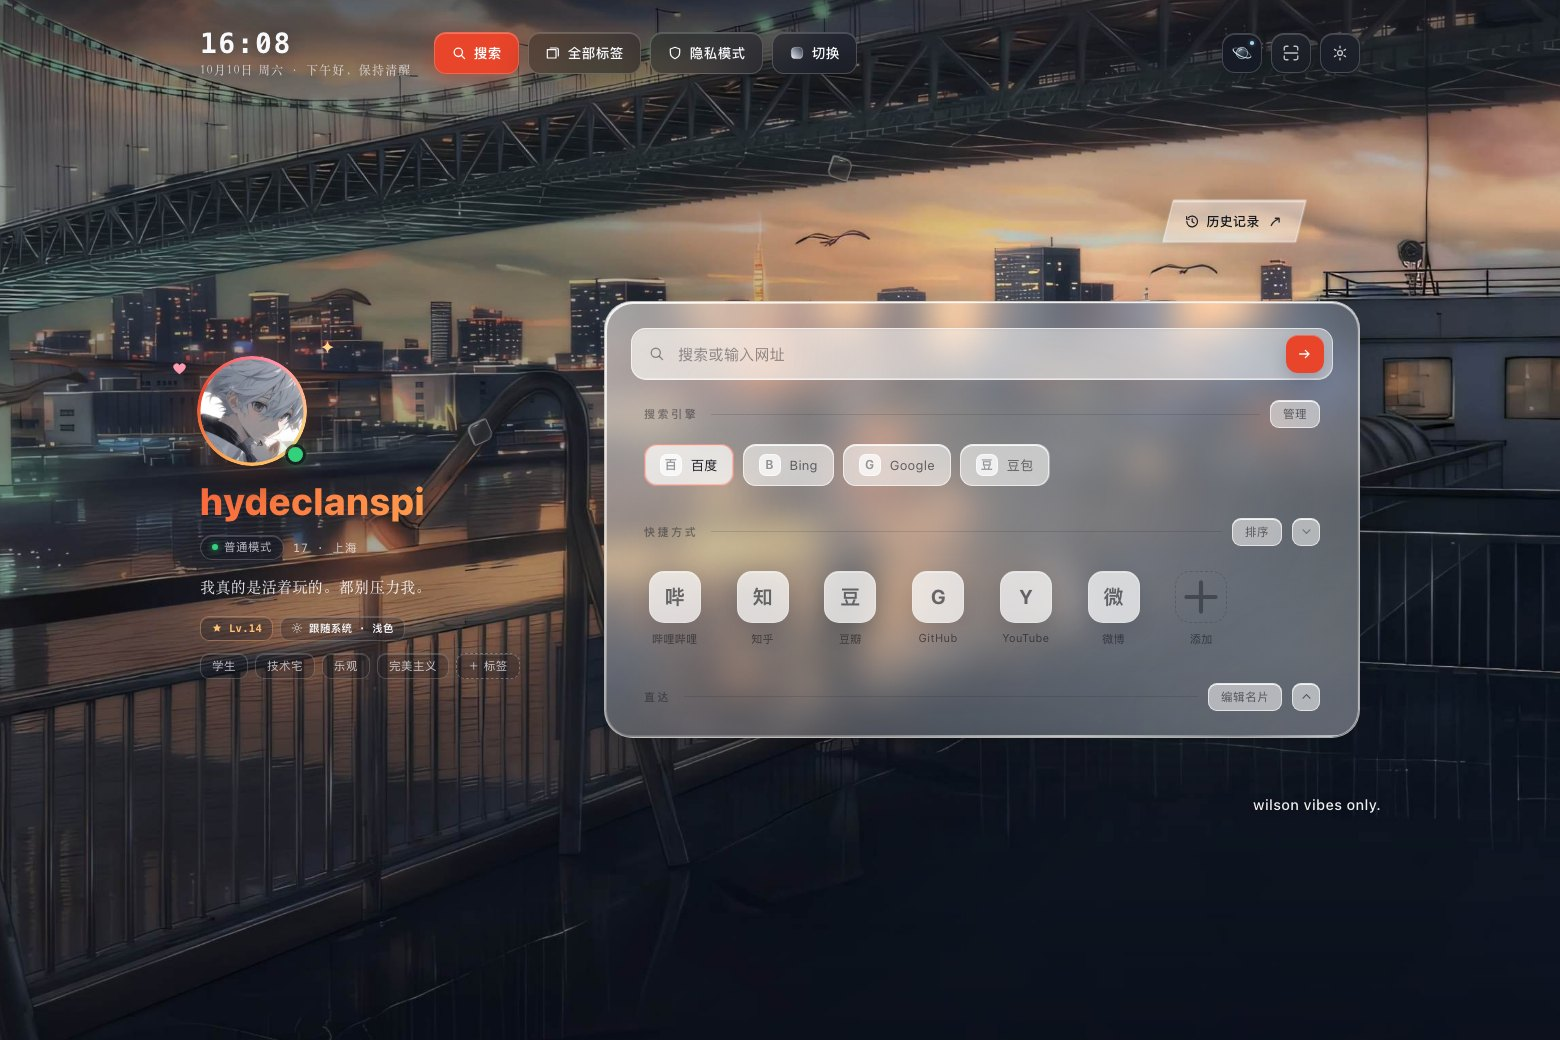
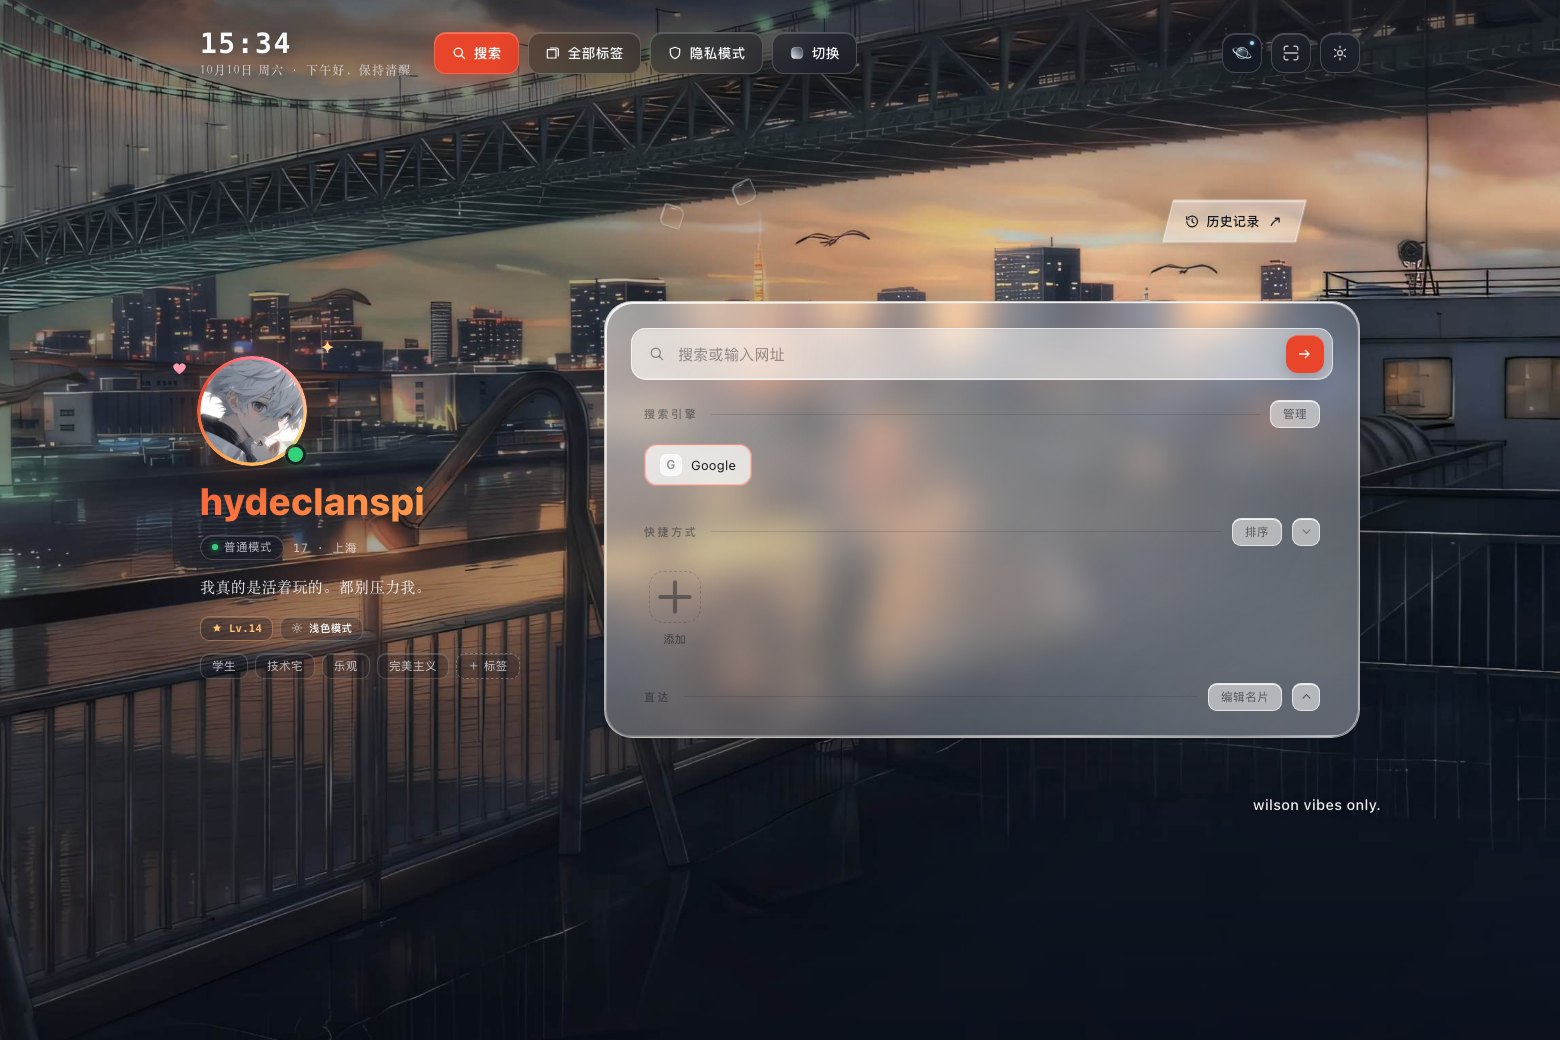
Glass: choose Warm Clear or Classic Frost for card and sheets (v5.0.3)
Set in the wallpaper sheet (hold Switch), and saved at once.

diff --git a/assets/app.js b/assets/app.js
@@ -78,6 +78,8 @@
     signs: [],
     wallpaper: "dark",
     wallpaperBlur: {},
+    glassMaterial: { version: 1, home: "warm", sheets: "warm" },
+    glassMaterialReady: false,
     wallpaperRolled: "",
     wallpaperProbability: { version: 1, light: 0.5, source: "default", updatedAt: 0 },
     wallpaperProbabilityReady: false,
@@ -1664,7 +1666,7 @@
     meta.className = "about-meta";
     var version = document.createElement("p");
     version.className = "about-version";
-    version.textContent = "名片主页 v4.5.3 · 2026-10 构建";
+    version.textContent = "名片主页 v5.0.3 · 2026-10 构建";
     var build = document.createElement("p");
     build.className = "about-build";
     build.textContent = "鸿蒙 Aira 灵感台 · beta v0.7 引擎 · © 2026";
@@ -1715,11 +1717,11 @@
   var EXPORT_BIG_CHARS = 64 * 1024;   // 单次复制开始提示静默截断风险的体量
   var EXPORT_STORE_WAIT = 1600;       // 两个引擎就绪的等待上限，超时只降级，不失败
 
-  var EXPORT_KEYS = ["profile", "icons", "folds", "wallpaper", "wallpaperBlur", "wallpaperProbability",
+  var EXPORT_KEYS = ["profile", "icons", "folds", "wallpaper", "wallpaperBlur", "glassMaterial", "wallpaperProbability",
     "probabilityDefaults", "interactionSettings", "collisionSettings", "motionSettings", "autoDriveSettings",
     "uiPrefs", "logs", "signs", "logsBundleVersion", "signsBundleVersion"];
   var EXPORT_LABELS = {
-    profile: "名片", icons: "图标偏好", folds: "折叠状态", wallpaper: "壁纸模式", wallpaperBlur: "壁纸模糊",
+    profile: "名片", icons: "图标偏好", folds: "折叠状态", wallpaper: "壁纸模式", wallpaperBlur: "壁纸模糊", glassMaterial: "玻璃材质",
     wallpaperProbability: "明暗比例", probabilityDefaults: "比例默认值", interactionSettings: "浮光数量",
     collisionSettings: "碰撞力度", motionSettings: "自然 pace", autoDriveSettings: "自动驾驶", uiPrefs: "编号徽章",
     logs: "日志", signs: "签名历史", logsBundleVersion: "日志版本", signsBundleVersion: "签名版本"
@@ -3755,6 +3757,73 @@
     syncInteractionPanel(); syncProbabilityPanel(); syncCollisionPanel(); syncPacePanel(); syncAutoDriveButton(); syncFactoryPanel();
   }
 
+  // Independent material choices use the same native storage bridge as wallpaper.
+  var glassLoadRevision = 0;
+  var glassSaveQueue = Promise.resolve();
+  function applyGlassMaterial() {
+    root.dataset.homeGlass = state.glassMaterial.home;
+    root.dataset.sheetGlass = state.glassMaterial.sheets;
+    document.querySelectorAll("[data-glass-target]").forEach(function (button) {
+      button.disabled = !state.glassMaterialReady;
+      button.setAttribute("aria-pressed", String(state.glassMaterial[button.dataset.glassTarget] === button.dataset.glassValue));
+    });
+  }
+  function loadGlassMaterial() {
+    var revision = ++glassLoadRevision;
+    state.glassMaterialReady = false;
+    applyGlassMaterial();
+    return storageGet("glassMaterial", null).then(function (saved) {
+      if (revision !== glassLoadRevision) return;
+      saved = saved && typeof saved === "object" ? saved : {};
+      state.glassMaterial = { version: 1, home: saved.home === "classic" ? "classic" : "warm", sheets: saved.sheets === "classic" ? "classic" : "warm" };
+      state.glassMaterialReady = true;
+      applyGlassMaterial();
+    }).catch(function () { if (revision === glassLoadRevision) { state.glassMaterialReady = true; applyGlassMaterial(); } });
+  }
+  function buildGlassMaterialSettings() {
+    var section = document.createElement("section");
+    section.className = "glass-material-section";
+    var title = document.createElement("p");
+    title.className = "wp-label glass-material-title";
+    title.textContent = "玻璃材质";
+    section.appendChild(title);
+    var capsule = document.createElement("div");
+    capsule.className = "interaction-toolbar glass-material-settings";
+    [["home", "主页主面板"], ["sheets", "进阶弹出窗口"]].forEach(function (target) {
+      var row = document.createElement("div");
+      row.className = "glass-material-row";
+      row.setAttribute("role", "group");
+      row.setAttribute("aria-label", target[1] + "玻璃材质");
+      var label = document.createElement("span");
+      label.className = "glass-material-label";
+      label.textContent = target[1];
+      row.appendChild(label);
+      [["classic", "经典磨砂玻璃"], ["warm", "暖光液态清璃"]].forEach(function (choice) {
+        var button = document.createElement("button");
+        button.type = "button";
+        button.className = "interaction-utility-button glass-material-choice";
+        button.textContent = choice[1];
+        button.dataset.glassTarget = target[0];
+        button.dataset.glassValue = choice[0];
+        button.disabled = !state.glassMaterialReady;
+        button.setAttribute("aria-pressed", String(state.glassMaterial[target[0]] === choice[0]));
+        button.addEventListener("click", function () {
+          if (state.glassMaterial[target[0]] === choice[0]) return;
+          ++glassLoadRevision;
+          state.glassMaterial[target[0]] = choice[0];
+          applyGlassMaterial();
+          var saved = { version: 1, home: state.glassMaterial.home, sheets: state.glassMaterial.sheets };
+          glassSaveQueue = glassSaveQueue.then(function () { return storageSet("glassMaterial", saved); })
+            .catch(function () { toast("材质已预览，保存未成功，请稍后重试"); });
+        });
+        row.appendChild(button);
+      });
+      capsule.appendChild(row);
+    });
+    section.appendChild(capsule);
+    return section;
+  }
+
   function openWallpaperPanel() {
     var body = document.createElement("div");
     body.className = "wp-panel";
@@ -3800,6 +3869,7 @@
     body.appendChild(modeNote);
     body.appendChild(picks);
     body.appendChild(blurRow);
+    body.appendChild(buildGlassMaterialSettings());
 
     var thumbs = {};
 
@@ -4197,6 +4267,7 @@
     initStats();
     initField();
     loadUiPrefs();
+    loadGlassMaterial();
     loadCollisionSettings();
     loadPaceSettings();
     loadAutoDriveSettings();

diff --git a/assets/glass-material.css b/assets/glass-material.css
@@ -1,11 +1,10 @@
-/* v5.0 beta.2 — warm-clear color study; two opt-in surfaces, all layout belongs to the original CSS.
-   No global glass/ink tokens: child windows and unrelated controls keep 4.5.3.
-   Only RGB colors change from beta.1; alpha, filters and geometry stay fixed.
+/* v5.0.3 — independently selected warm-clear materials, inherited from beta.2.
+   Classic surfaces keep the original CSS; layout and optical parameters stay fixed.
    --beta-cool is the inherited name for the neutral environment fill.
    The optical rim is an illustration of thickness, not a refraction shader. */
 
-.page > .card,
-#sheet.interaction-sheet {
+:root[data-home-glass="warm"] .page > .card,
+:root[data-sheet-glass="warm"] #sheet {
   --beta-warm: 250, 231, 209;
   --beta-cool: 220, 222, 224;
   --beta-face: 248, 247, 244;
@@ -26,8 +25,8 @@
   backdrop-filter: blur(18px) saturate(132%) brightness(1.13);
 }
 
-/* The interaction sheet has a steadier reading bed than the home surface. */
-#sheet.interaction-sheet {
+/* Every sheet has a steadier reading bed than the home surface. */
+:root[data-sheet-glass="warm"] #sheet {
   background:
     radial-gradient(ellipse at 45% 44%, rgba(253, 251, 248, .43), rgba(249, 247, 243, .13) 80%, transparent),
     linear-gradient(123deg, rgba(255, 254, 252, .38), rgba(247, 244, 239, .23) 48%, rgba(243, 241, 237, .28));
@@ -35,15 +34,15 @@
   backdrop-filter: blur(26px) saturate(124%) brightness(1.19);
 }
 
-:root[data-beta-wallpaper="light"] .page > .card,
-:root[data-beta-wallpaper="light"] #sheet.interaction-sheet {
+:root[data-beta-wallpaper="light"][data-home-glass="warm"] .page > .card,
+:root[data-beta-wallpaper="light"][data-sheet-glass="warm"] #sheet {
   --beta-warm: 250, 232, 213;
   --beta-cool: 222, 221, 226;
 }
 
 /* A broad reflection and gentle environment color — anchored, never spinning. */
-.page > .card::before,
-#sheet.interaction-sheet::before {
+:root[data-home-glass="warm"] .page > .card::before,
+:root[data-sheet-glass="warm"] #sheet::before {
   content: "";
   position: absolute;
   inset: 0;
@@ -57,8 +56,8 @@
 
 /* Kept separate from the container so the external history tab is never clipped. */
 @supports ((mask-composite: exclude) or (-webkit-mask-composite: xor)) {
-  .page > .card::after,
-  #sheet.interaction-sheet::after {
+  :root[data-home-glass="warm"] .page > .card::after,
+  :root[data-sheet-glass="warm"] #sheet::after {
     content: "";
     position: absolute;
     inset: 0;
@@ -80,9 +79,9 @@
   }
 }
 
-/* Only these direct material decorations are added by glass-beta.js. */
-.page > .card > .beta-glass-sheen,
-#sheet.interaction-sheet > .beta-glass-sheen {
+/* Only these direct material decorations are added by glass-material.js. */
+:root[data-home-glass="warm"] .page > .card > .beta-glass-sheen,
+:root[data-sheet-glass="warm"] #sheet > .beta-glass-sheen {
   display: block;
   position: absolute;
   inset: 2px;
@@ -106,13 +105,13 @@
 }
 .beta-glass-sheen > .beta-glass-point.is-lit { opacity: 1; }
 
-#sheet.interaction-sheet > :not(.beta-glass-sheen) {
+:root[data-sheet-glass="warm"] #sheet > :not(.beta-glass-sheen) {
   position: relative;
   z-index: 1;
 }
 
-:root[data-theme="dark"] .page > .card,
-:root[data-theme="dark"] #sheet.interaction-sheet {
+:root[data-theme="dark"][data-home-glass="warm"] .page > .card,
+:root[data-theme="dark"][data-sheet-glass="warm"] #sheet {
   --beta-rim-light: .50;
   --beta-glow-strength: .105;
   background:
@@ -129,15 +128,15 @@
   -webkit-backdrop-filter: blur(18px) saturate(124%) brightness(.88);
   backdrop-filter: blur(18px) saturate(124%) brightness(.88);
 }
-:root[data-theme="dark"] #sheet.interaction-sheet {
+:root[data-theme="dark"][data-sheet-glass="warm"] #sheet {
   background:
     radial-gradient(ellipse at 45% 44%, rgba(26, 26, 28, .37), rgba(26, 26, 28, .12) 80%, transparent),
     linear-gradient(123deg, rgba(64, 61, 60, .39), rgba(26, 26, 29, .39) 45%, rgba(46, 44, 47, .41));
   -webkit-backdrop-filter: blur(26px) saturate(122%) brightness(.91);
   backdrop-filter: blur(26px) saturate(122%) brightness(.91);
 }
-:root[data-theme="dark"] .page > .card::before,
-:root[data-theme="dark"] #sheet.interaction-sheet::before {
+:root[data-theme="dark"][data-home-glass="warm"] .page > .card::before,
+:root[data-theme="dark"][data-sheet-glass="warm"] #sheet::before {
   background:
     radial-gradient(ellipse 72% 52% at 0% 0%, rgba(var(--beta-warm), .075), transparent 80%),
     radial-gradient(ellipse 70% 62% at 100% 100%, rgba(var(--beta-cool), .08), transparent 76%),
@@ -146,16 +145,16 @@
 
 /* A complete, readable fallback if the host has no backdrop-filter support. */
 @supports not ((backdrop-filter: blur(1px)) or (-webkit-backdrop-filter: blur(1px))) {
-  .page > .card, #sheet.interaction-sheet { background: rgba(241, 239, 235, .96); }
-  :root[data-theme="dark"] .page > .card,
-  :root[data-theme="dark"] #sheet.interaction-sheet { background: rgba(35, 34, 36, .97); }
+  :root[data-home-glass="warm"] .page > .card, :root[data-sheet-glass="warm"] #sheet { background: rgba(241, 239, 235, .96); }
+  :root[data-theme="dark"][data-home-glass="warm"] .page > .card,
+  :root[data-theme="dark"][data-sheet-glass="warm"] #sheet { background: rgba(35, 34, 36, .97); }
 }
 
 @media (prefers-reduced-motion: reduce) {
   .beta-glass-sheen { display: none !important; }
 }
 @media (prefers-reduced-transparency: reduce) {
-  .page > .card, #sheet.interaction-sheet { background: rgba(244, 242, 238, .96); }
-  :root[data-theme="dark"] .page > .card,
-  :root[data-theme="dark"] #sheet.interaction-sheet { background: rgba(35, 34, 36, .97); }
+  :root[data-home-glass="warm"] .page > .card, :root[data-sheet-glass="warm"] #sheet { background: rgba(244, 242, 238, .96); }
+  :root[data-theme="dark"][data-home-glass="warm"] .page > .card,
+  :root[data-theme="dark"][data-sheet-glass="warm"] #sheet { background: rgba(35, 34, 36, .97); }
 }

diff --git a/assets/glass-material.js b/assets/glass-material.js
@@ -13,10 +13,13 @@
   var frame = 0;
   var disposed = false;
 
+  function enabled(controller) {
+    return root.getAttribute(controller.node === card ? "data-home-glass" : "data-sheet-glass") === "warm";
+  }
+
   function active(controller) {
-    return !disposed && !document.hidden && !reduce.matches &&
-      (controller.node === card ? sheetRoot.hidden :
-        !sheetRoot.hidden && sheet.classList.contains("interaction-sheet"));
+    return !disposed && enabled(controller) && !document.hidden && !reduce.matches &&
+      (controller.node === card ? !sheetRoot || sheetRoot.hidden : sheetRoot && !sheetRoot.hidden);
   }
 
   function syncWallpaper() {
@@ -37,7 +40,7 @@
   }
 
   function ensure(controller) {
-    if (controller.point && controller.point.parentNode.parentNode === controller.node) return;
+    if (controller.point && controller.point.parentNode && controller.point.parentNode.parentNode === controller.node) return;
     var skin = controller.node.querySelector(":scope > .beta-glass-sheen");
     if (!skin) {
       skin = document.createElement("span");
@@ -97,19 +100,42 @@
   }
 
   function released() { hideAll(); }
-  function syncSheet() {
+  function syncSurfaces() {
     hideAll();
-    // Original openSheet replaces children; restored parent panels may reuse them.
-    if (!sheet.classList.contains("interaction-sheet")) return;
-    var controller = controllers[1];
-    if (controller && controller.point && !sheet.contains(controller.point)) controller.point = null;
+    controllers.forEach(function (controller) {
+      // openSheet replaces children; returning from a child panel can restore an older skin.
+      var skins = controller.node.querySelectorAll(":scope > .beta-glass-sheen");
+      controller.point = null;
+      skins.forEach(function (skin) {
+        var point = skin.querySelector(".beta-glass-point");
+        if (point) point.classList.remove("is-lit");
+        if (!enabled(controller)) skin.remove();
+        else if (point && !controller.point) controller.point = point;
+        else skin.remove();
+      });
+    });
   }
+  function syncSheet(records) {
+    var changed = records.some(function (record) {
+      if (record.type === "attributes") return true;
+      // Adding our own skin must not cancel the first pointer frame.
+      return Array.from(record.addedNodes).concat(Array.from(record.removedNodes)).some(function (node) {
+        return node.nodeType !== 1 || !node.classList.contains("beta-glass-sheen");
+      });
+    });
+    if (changed) syncSurfaces();
+  }
+
   function visibility() { if (document.hidden) hideAll(); }
   function pause() { hideAll(); }
 
   bind(card);
   bind(sheet);
   syncWallpaper();
+  syncSurfaces();
+  var materialObserver = new MutationObserver(syncSurfaces);
+  materialObserver.observe(root, { attributes: true, attributeFilter: ["data-home-glass", "data-sheet-glass", "data-theme", "data-beta-wallpaper"] });
+  observers.push(materialObserver);
   if (wallpaper) {
     var wallpaperObserver = new MutationObserver(syncWallpaper);
     wallpaperObserver.observe(wallpaper, { attributes: true, attributeFilter: ["class"] });
@@ -117,7 +143,7 @@
   }
   if (sheet && sheetRoot) {
     var sheetObserver = new MutationObserver(syncSheet);
-    sheetObserver.observe(sheet, { attributes: true, attributeFilter: ["class"] });
+    sheetObserver.observe(sheet, { attributes: true, attributeFilter: ["class"], childList: true });
     sheetObserver.observe(sheetRoot, { attributes: true, attributeFilter: ["hidden"] });
     observers.push(sheetObserver);
   }

diff --git a/index.html b/index.html
@@ -1,5 +1,5 @@
 <!doctype html>
-<html lang="zh-CN" data-theme="light">
+<html lang="zh-CN" data-theme="light" data-home-glass="warm" data-sheet-glass="warm">
 <head>
   <meta charset="utf-8">
   <meta name="viewport" content="width=device-width, initial-scale=1, viewport-fit=cover">
@@ -8,7 +8,8 @@
   <link rel="stylesheet" href="./assets/app.css">
   <link rel="stylesheet" href="./assets/interaction.css">
   <link rel="stylesheet" href="./assets/stats.css">
-  <link rel="stylesheet" href="./assets/glass-beta.css">
+  <link rel="stylesheet" href="./assets/glass-material.css">
+  <link rel="stylesheet" href="./assets/glass-settings.css">
   <style>
     body {
       background-image: url("./assets/wallpaper.jpg");
@@ -19,6 +20,13 @@
     }
   </style>
   <script>
+    try {
+      var material = JSON.parse(localStorage.getItem("aira-profile-card:glassMaterial") || "null");
+      if (material) {
+        document.documentElement.dataset.homeGlass = material.home === "classic" ? "classic" : "warm";
+        document.documentElement.dataset.sheetGlass = material.sheets === "classic" ? "classic" : "warm";
+      }
+    } catch (e) {}
     if (window.matchMedia && window.matchMedia("(prefers-color-scheme: dark)").matches) {
       document.documentElement.dataset.theme = "dark";
     }
@@ -200,6 +208,6 @@
   <script src="./assets/field-store.js"></script>
   <script src="./assets/stats-panel.js"></script>
   <script src="./assets/app.js"></script>
-  <script src="./assets/glass-beta.js"></script>
+  <script src="./assets/glass-material.js"></script>
 </body>
 </html>

diff --git a/assets/glass-settings.css b/assets/glass-settings.css
@@ -1,0 +1,15 @@
+/* Reuse the interaction toolbar's glass capsule, with two independent rows. */
+.glass-material-section { margin-top: 24px; }
+.glass-material-title { margin: 0 0 12px 4px; font-size: 12px; color: var(--ink-2); letter-spacing: .8px; }
+.interaction-toolbar.glass-material-settings { grid-template-columns: minmax(0, 1fr); margin: 0; padding: 5px; }
+.glass-material-row { display: grid; grid-template-columns: minmax(108px, .85fr) repeat(2, minmax(0, 1fr)); align-items: center; gap: 4px; padding: 3px; }
+.glass-material-row + .glass-material-row { border-top: 1px solid var(--utility-rule); margin-top: 4px; padding-top: 7px; }
+.glass-material-label { color: var(--utility-ink); font-size: 12px; padding: 0 12px; }
+.glass-material-choice { min-height: 42px; padding: 8px 9px; font-size: 12px; letter-spacing: 0; }
+.glass-material-choice[aria-pressed="true"] { color: var(--ink); background: rgba(255, 250, 242, .43); box-shadow: inset 0 1px 0 rgba(255, 255, 255, .58), 0 2px 6px rgba(69, 49, 30, .045); }
+.glass-material-choice:disabled { opacity: .55; }
+@media (max-width: 520px) {
+  .glass-material-row { grid-template-columns: repeat(2, minmax(0, 1fr)); }
+  .glass-material-label { grid-column: 1 / -1; padding: 7px 9px 3px; }
+  .glass-material-choice { white-space: normal; }
+}
